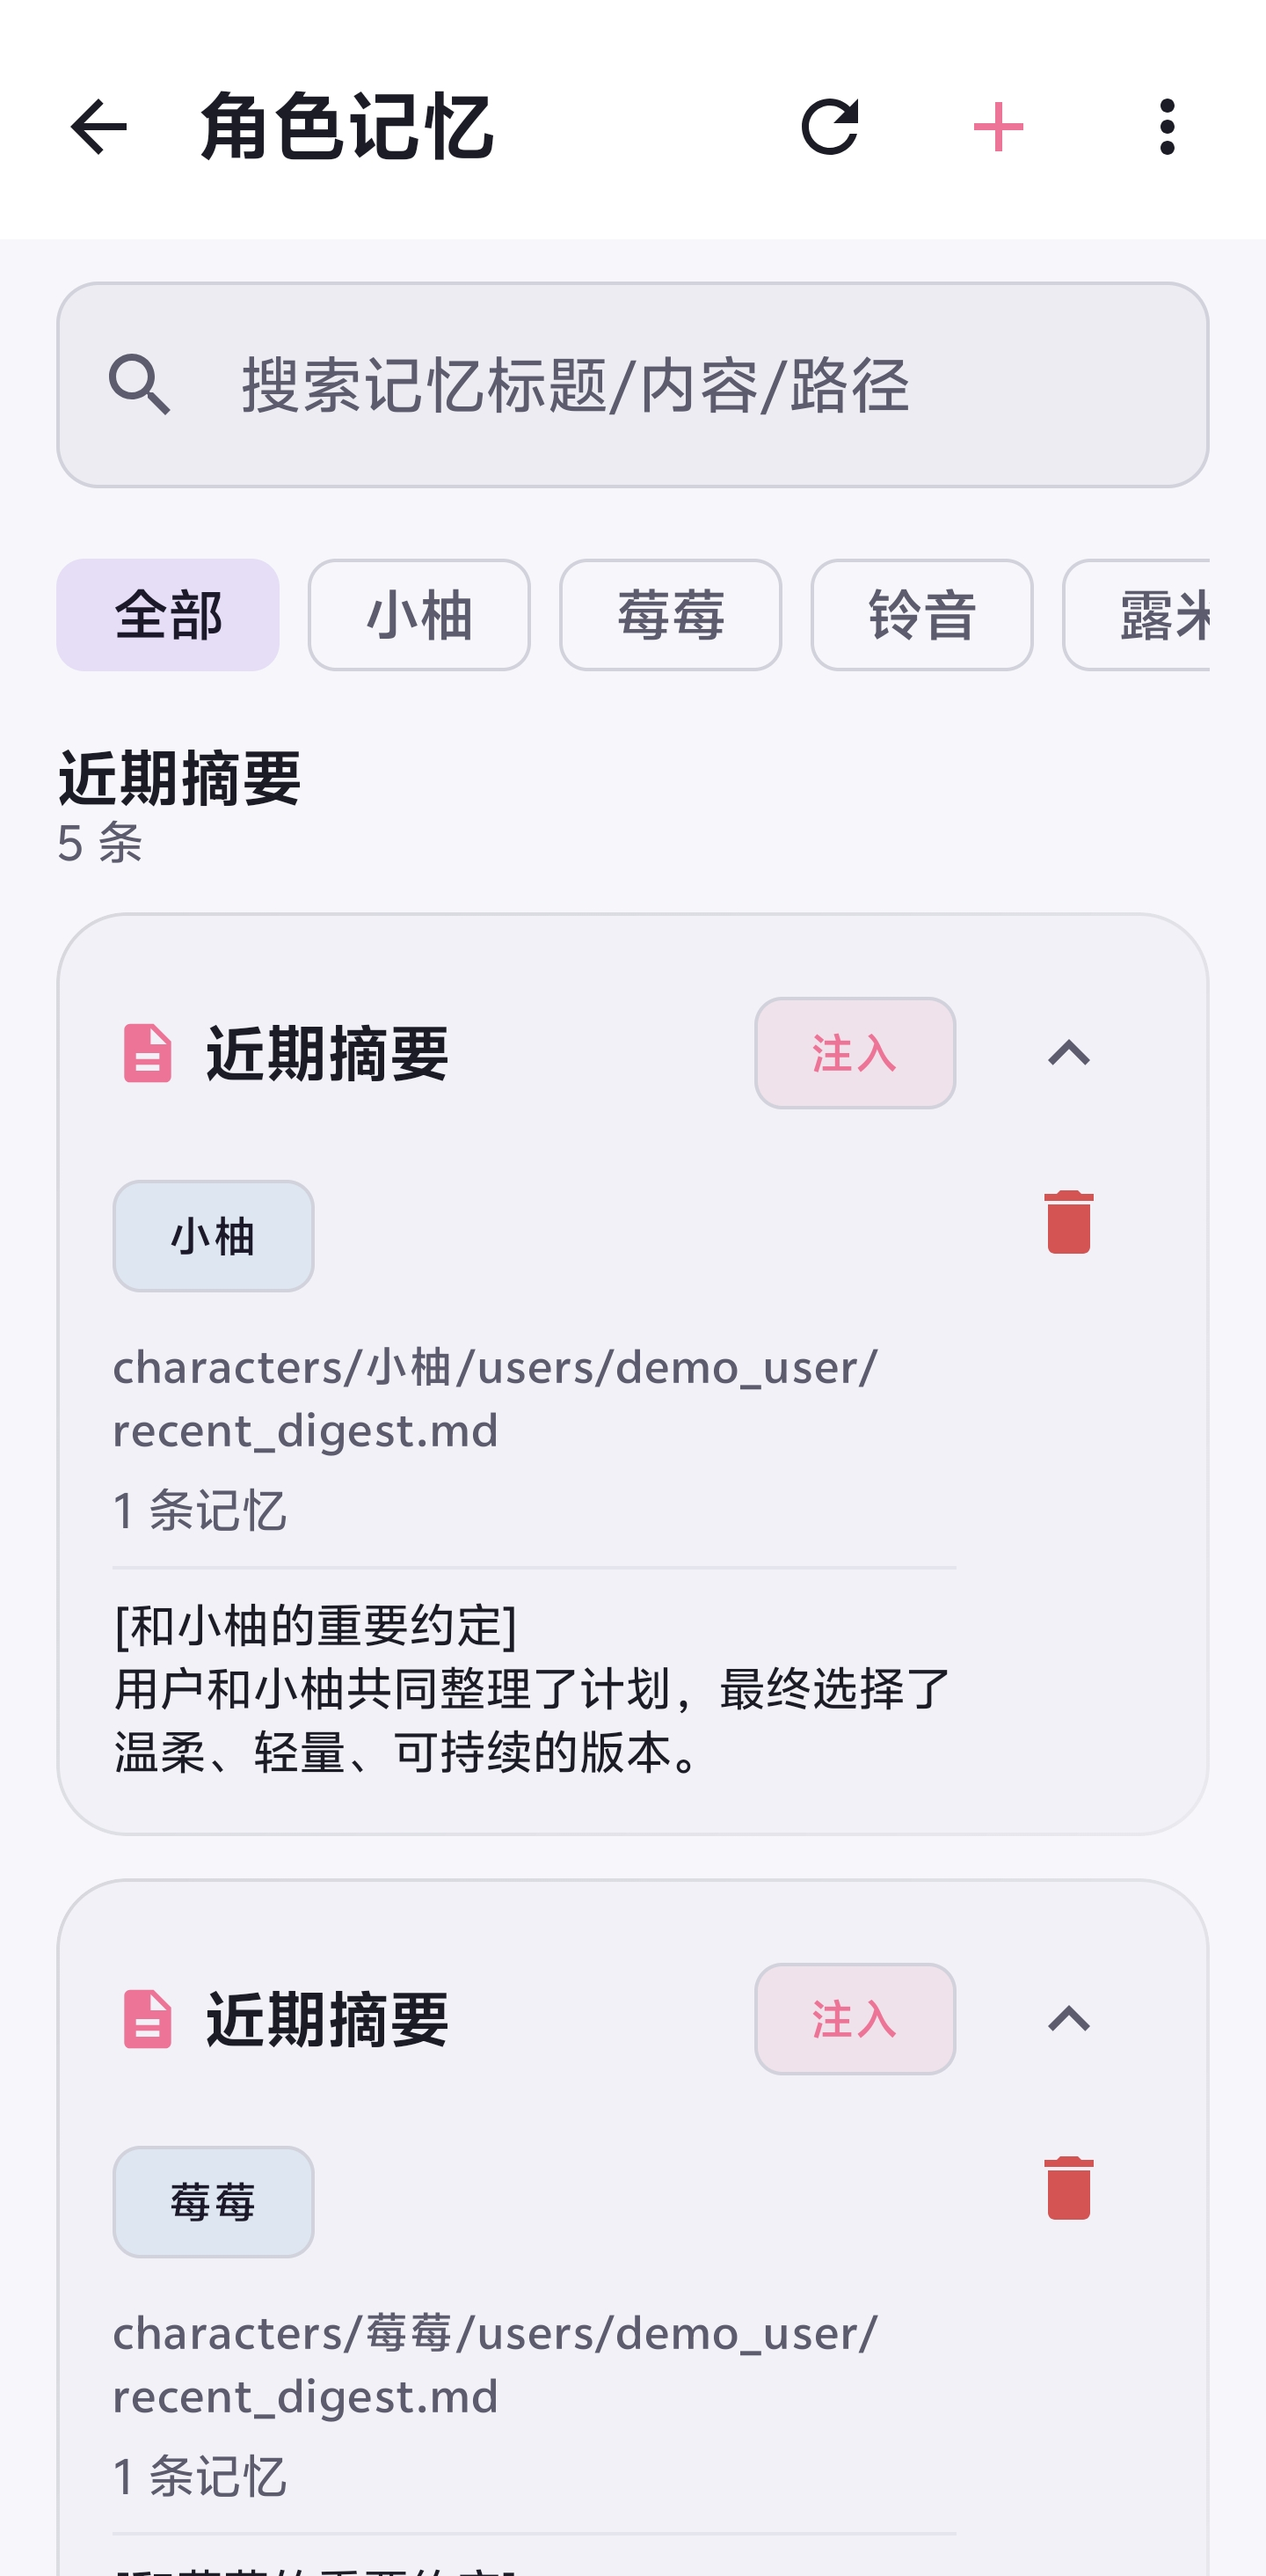
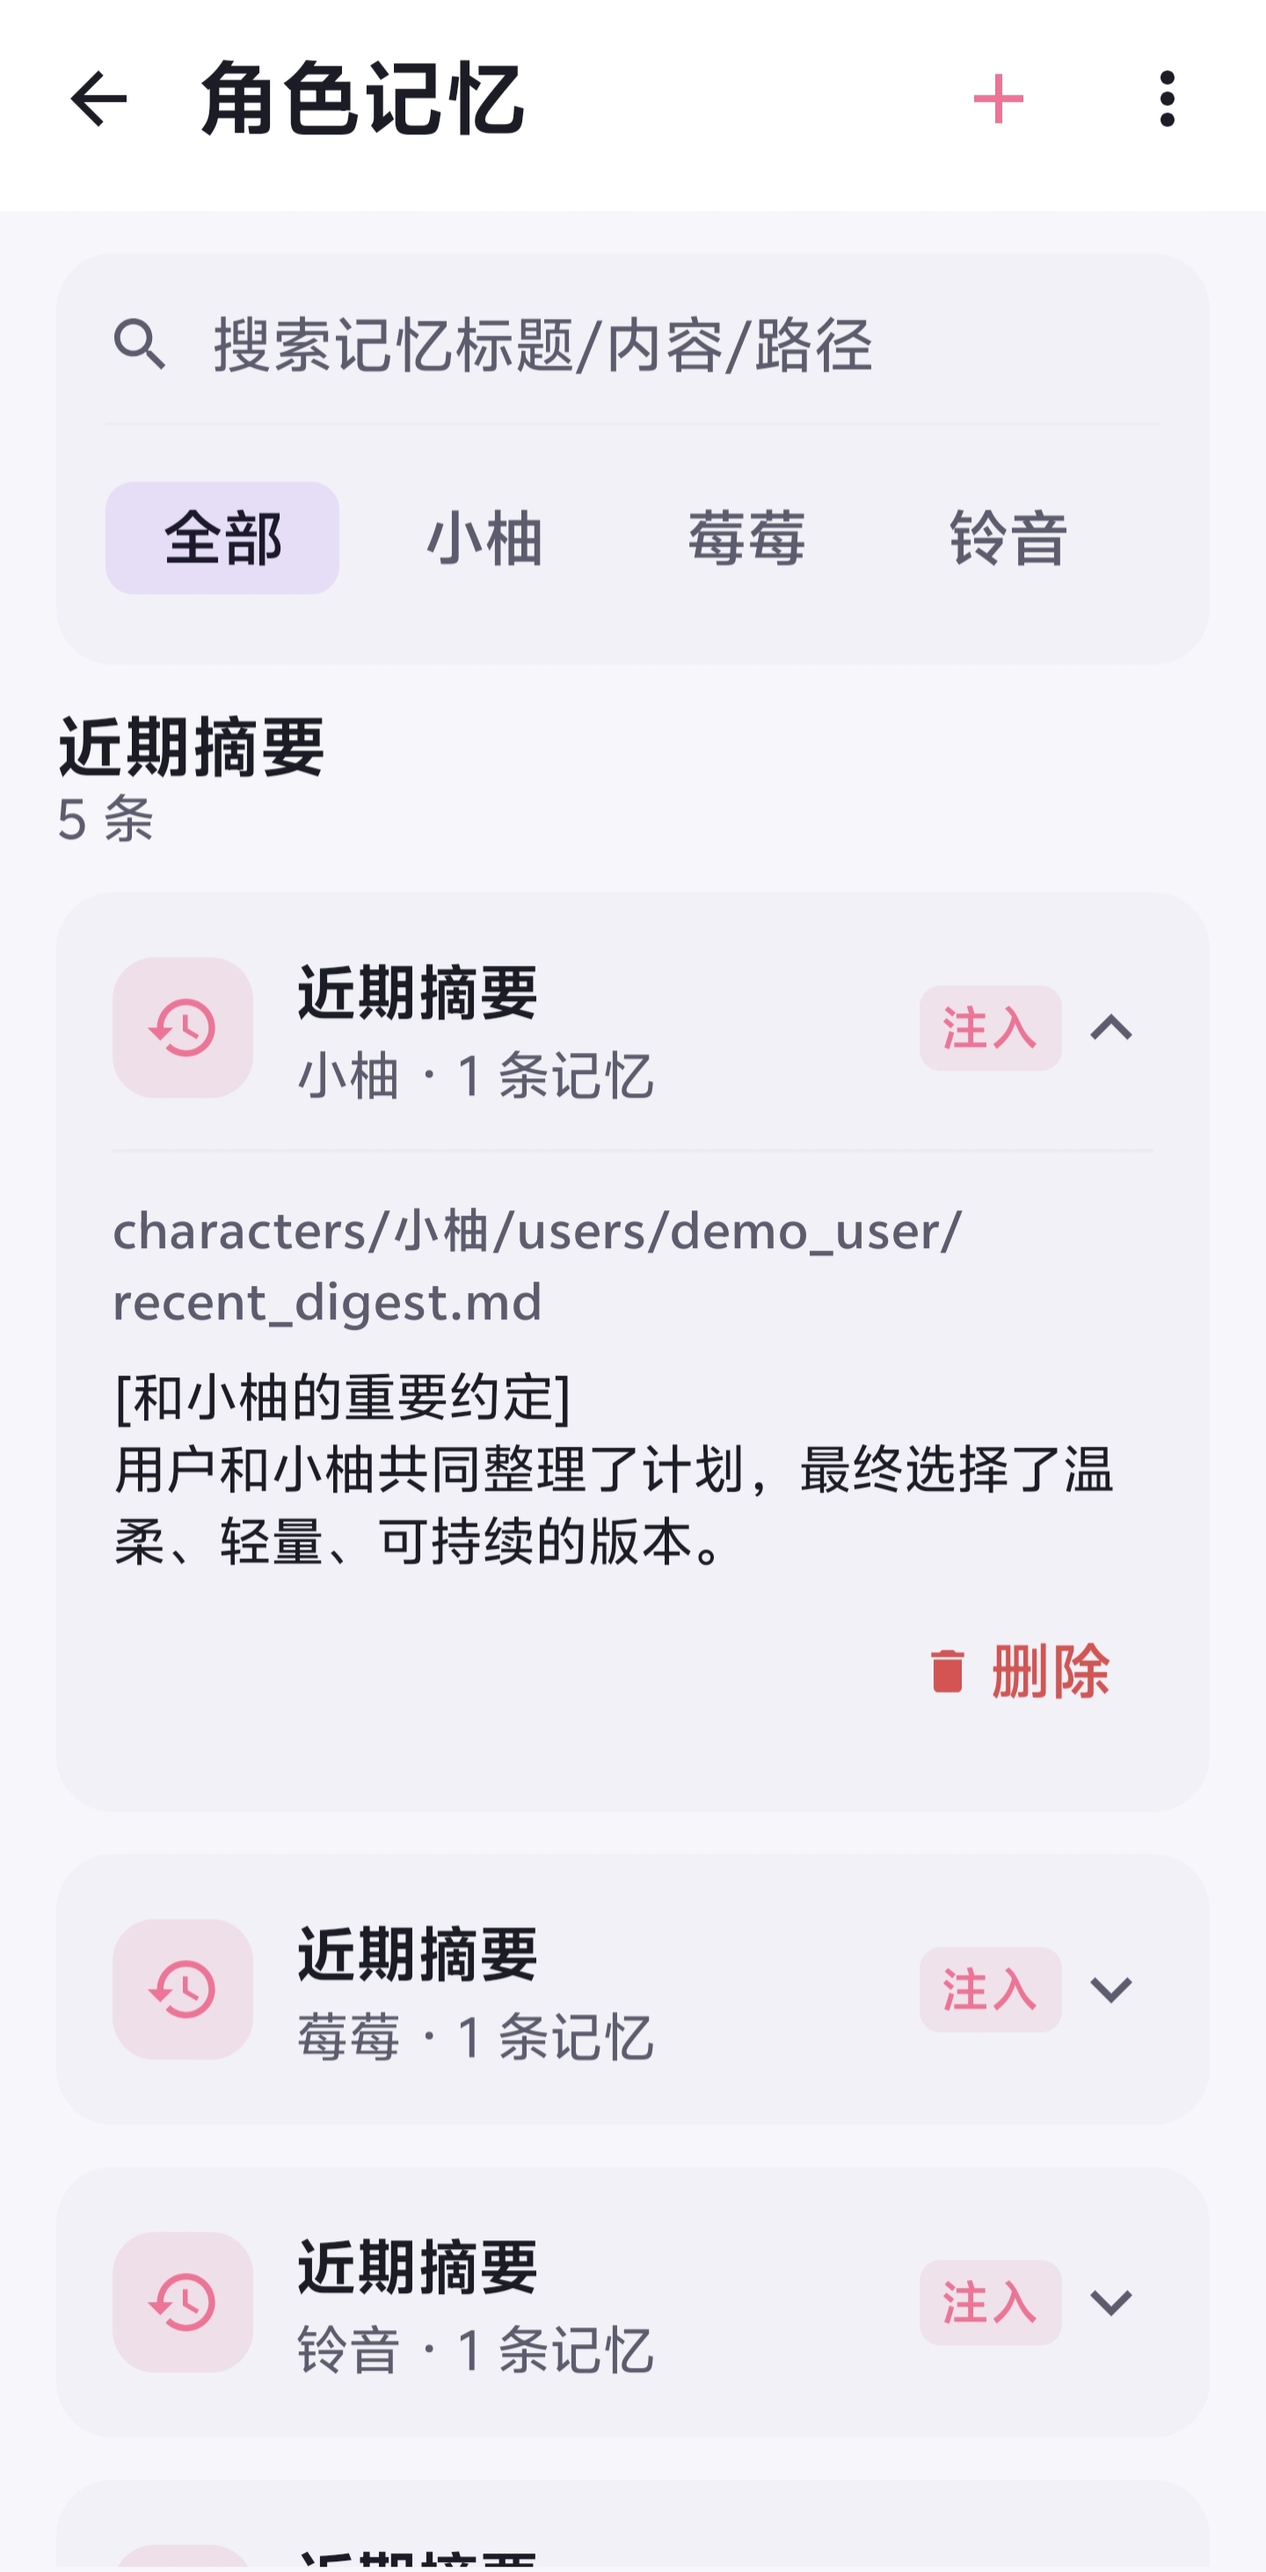
docs: 更新 README 文档与功能截图
- 新增"拓展功能"界面截图 expansion.jpg，并补充至 README.md 与 README_EN.md 的截图展示区
- 更新 memories、more、usage 等功能截图
- 调整 README_EN.md 中能力、双模式架构、技术栈、权限等表格的对齐格式

diff --git a/README_EN.md b/README_EN.md
@@ -52,7 +52,7 @@ Native Android client · Server / Local dual mode · Dark glassmorphism UI
   <tr>
     <td align="center"><img src="docs/assets/screenshots/state-history-trend.jpg" alt="State Trends" /><br /><sub>Trends & Diff</sub></td>
     <td align="center"><img src="docs/assets/screenshots/more.jpg" alt="More" /><br /><sub>More Features</sub></td>
-    <td></td>
+    <td align="center"><img src="docs/assets/screenshots/expansion.jpg" alt="Expansion" /><br /><sub>Extended Features</sub></td>
   </tr>
 </table>
 
@@ -93,18 +93,18 @@ Native Android client · Server / Local dual mode · Dark glassmorphism UI
 
 Agent mode runs in local mode, allowing models that support Function Calling / Tool Use not only to generate text, but also to browse the web, manipulate files, execute Linux commands and continuously complete multi-step tasks within a session.
 
-| Capability               | Description                                                     |
-| ---------------- | ------------------------------------------------------ |
-| **Multi-turn Tool Execution** | Models can plan and call tools continuously; the progress card displays reasoning, parameters, results and errors in real time, and the expanded state is preserved across new tool events. |
-| **Native Browser**        | Multi-tab support, click, input, scroll, forward/back, JavaScript, viewport and User-Agent switching. |
-| **Web Reading**           | Read body content, dynamic DOM source, interaction skeletons and structured URLs; supports Cookie-authenticated requests and file downloads. |
-| **Browser Preview**       | View the current page in real time on the chat screen with full-screen zoom; AI can capture the current page or long pages and send them to a vision model to understand images, charts and complex layouts. |
-| **Linux Sandbox**         | Built-in Alpine Linux + PRoot, supports package installation, running scripts, launching background processes and reusing the command-line environment. |
-| **Session Terminal**      | A full-screen command line can be opened from the top-right menu of an Agent session, directly operating the session's `/workspace`. |
-| **Files & Images**        | Read, write, edit precisely, list, parse and send workspace files; can call vision models to understand local images. |
-| **Skills & MCP**          | Agent can read enabled local Skills and call tools provided by connected MCP servers. |
-| **Execution Guard**       | High-risk commands require confirmation; tool parameters are fixed and validated before execution; repeated, no-progress calls are auto-stopped. |
-| **Background Execution**  | Foreground service and persistent notification are enabled during Agent work, reducing the chance of Android killing tasks when going to the background. |
+| Capability                    | Description                                                                                                                                                                                                  |
+| ----------------------------- | ------------------------------------------------------------------------------------------------------------------------------------------------------------------------------------------------------------ |
+| **Multi-turn Tool Execution** | Models can plan and call tools continuously; the progress card displays reasoning, parameters, results and errors in real time, and the expanded state is preserved across new tool events.                  |
+| **Native Browser**            | Multi-tab support, click, input, scroll, forward/back, JavaScript, viewport and User-Agent switching.                                                                                                        |
+| **Web Reading**               | Read body content, dynamic DOM source, interaction skeletons and structured URLs; supports Cookie-authenticated requests and file downloads.                                                                 |
+| **Browser Preview**           | View the current page in real time on the chat screen with full-screen zoom; AI can capture the current page or long pages and send them to a vision model to understand images, charts and complex layouts. |
+| **Linux Sandbox**             | Built-in Alpine Linux + PRoot, supports package installation, running scripts, launching background processes and reusing the command-line environment.                                                      |
+| **Session Terminal**          | A full-screen command line can be opened from the top-right menu of an Agent session, directly operating the session's `/workspace`.                                                                         |
+| **Files & Images**            | Read, write, edit precisely, list, parse and send workspace files; can call vision models to understand local images.                                                                                        |
+| **Skills & MCP**              | Agent can read enabled local Skills and call tools provided by connected MCP servers.                                                                                                                        |
+| **Execution Guard**           | High-risk commands require confirmation; tool parameters are fixed and validated before execution; repeated, no-progress calls are auto-stopped.                                                             |
+| **Background Execution**      | Foreground service and persistent notification are enabled during Agent work, reducing the chance of Android killing tasks when going to the background.                                                     |
 
 ### Sandbox Data & Session Isolation
 
@@ -117,13 +117,13 @@ Agent mode runs in local mode, allowing models that support Function Calling / T
 
 ## 🔄 Dual Mode Architecture
 
-|           | 🌐 Server Mode                | 📱 Local Mode                            |
-| --------- | ----------------------- | ---------------------------------- |
-| **Backend**    | Connect to the NekoBot Web backend       | No backend, direct connection to OpenAI-compatible API |
-| **Communication**    | REST + Socket.IO real-time streaming | Local direct AI API requests |
-| **Data Storage**  | Server + local cache              | Room database + session workspace + writable Linux rootfs |
-| **Agent** | Depends on server capabilities                | Built-in browser, Linux sandbox, terminal, Skills and MCP |
-| **Use Cases**  | Full feature ecosystem, multi-device sync             | Privacy-first, local data, your own API keys, on-device Agent |
+|                   | 🌐 Server Mode                            | 📱 Local Mode                                                 |
+| ----------------- | ----------------------------------------- | ------------------------------------------------------------- |
+| **Backend**       | Connect to the NekoBot Web backend        | No backend, direct connection to OpenAI-compatible API        |
+| **Communication** | REST + Socket.IO real-time streaming      | Local direct AI API requests                                  |
+| **Data Storage**  | Server + local cache                      | Room database + session workspace + writable Linux rootfs     |
+| **Agent**         | Depends on server capabilities            | Built-in browser, Linux sandbox, terminal, Skills and MCP     |
+| **Use Cases**     | Full feature ecosystem, multi-device sync | Privacy-first, local data, your own API keys, on-device Agent |
 
 ## 📦 Install
 
@@ -163,19 +163,19 @@ Agent mode runs in local mode, allowing models that support Function Calling / T
 
 ## 🛠 Tech Stack
 
-| Category        | Stack                                         |
-| --------- | ------------------------------------------ |
-| Language        | Kotlin 2.0.21                              |
-| UI        | Jetpack Compose (BOM 2024.09.02) + Material3 |
-| Architecture        | MVVM (BaseViewModel + StateFlow)            |
-| Async        | Kotlin Coroutines 1.9.0                    |
-| Network        | Retrofit 2.11 + OkHttp 4.12 + Gson         |
-| Real-time      | socket.io-client-java 2.1.0                |
-| Database       | Room 2.6.1 (KSP annotation processing)                       |
-| Image Loading      | Coil 2.7.0 (crossfade + 256MB disk cache)         |
-| Navigation        | Navigation Compose 2.8.2                   |
-| Agent Runtime | Android WebView + Alpine Linux + PRoot     |
-| Build        | Gradle 8.11.1 + AGP 8.9.1 + KSP            |
+| Category      | Stack                                        |
+| ------------- | -------------------------------------------- |
+| Language      | Kotlin 2.0.21                                |
+| UI            | Jetpack Compose (BOM 2024.09.02) + Material3 |
+| Architecture  | MVVM (BaseViewModel + StateFlow)             |
+| Async         | Kotlin Coroutines 1.9.0                      |
+| Network       | Retrofit 2.11 + OkHttp 4.12 + Gson           |
+| Real-time     | socket.io-client-java 2.1.0                  |
+| Database      | Room 2.6.1 (KSP annotation processing)       |
+| Image Loading | Coil 2.7.0 (crossfade + 256MB disk cache)    |
+| Navigation    | Navigation Compose 2.8.2                     |
+| Agent Runtime | Android WebView + Alpine Linux + PRoot       |
+| Build         | Gradle 8.11.1 + AGP 8.9.1 + KSP              |
 
 ## 🔧 Build from Source
 
@@ -278,14 +278,14 @@ app/src/main/kotlin/com/nekobot/app/
 
 ## 🔐 Permissions
 
-| Permission                                                    | Purpose                    |
-| ----------------------------------------------------- | --------------------- |
+| Permission                                            | Purpose                                                         |
+| ----------------------------------------------------- | --------------------------------------------------------------- |
 | `INTERNET`                                            | Network communication, Agent browser and sandbox network access |
-| `ACCESS_NETWORK_STATE`                                | Detect network status                |
-| `RECORD_AUDIO`                                        | Voice input (server mode)           |
-| `POST_NOTIFICATIONS`                                  | Session notifications and Agent background status    |
-| `FOREGROUND_SERVICE` / `FOREGROUND_SERVICE_DATA_SYNC` | Agent long-running tasks continue in the foreground service   |
-| `WAKE_LOCK`                                           | Avoid early CPU sleep during Agent execution |
+| `ACCESS_NETWORK_STATE`                                | Detect network status                                           |
+| `RECORD_AUDIO`                                        | Voice input (server mode)                                       |
+| `POST_NOTIFICATIONS`                                  | Session notifications and Agent background status               |
+| `FOREGROUND_SERVICE` / `FOREGROUND_SERVICE_DATA_SYNC` | Agent long-running tasks continue in the foreground service     |
+| `WAKE_LOCK`                                           | Avoid early CPU sleep during Agent execution                    |
 
 ## 🐞 Debugging
 

diff --git a/README.md b/README.md
@@ -52,7 +52,7 @@
   <tr>
     <td align="center"><img src="docs/assets/screenshots/state-history-trend.jpg" alt="角色状态趋势" /><br /><sub>状态趋势与差分</sub></td>
     <td align="center"><img src="docs/assets/screenshots/more.jpg" alt="更多功能" /><br /><sub>更多功能</sub></td>
-    <td></td>
+    <td align="center"><img src="docs/assets/screenshots/expansion.jpg" alt="拓展功能" /><br /><sub>拓展功能</sub></td>
   </tr>
 </table>
 
